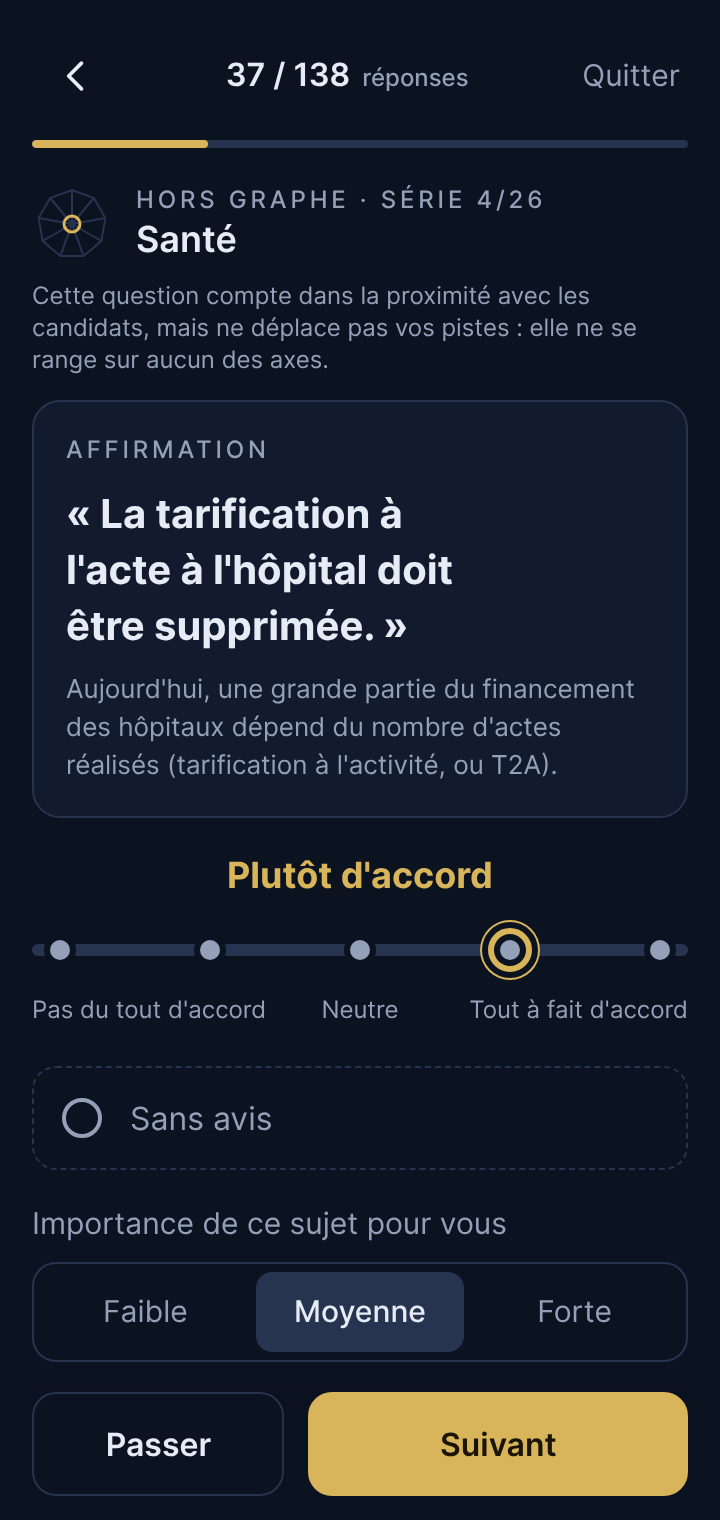
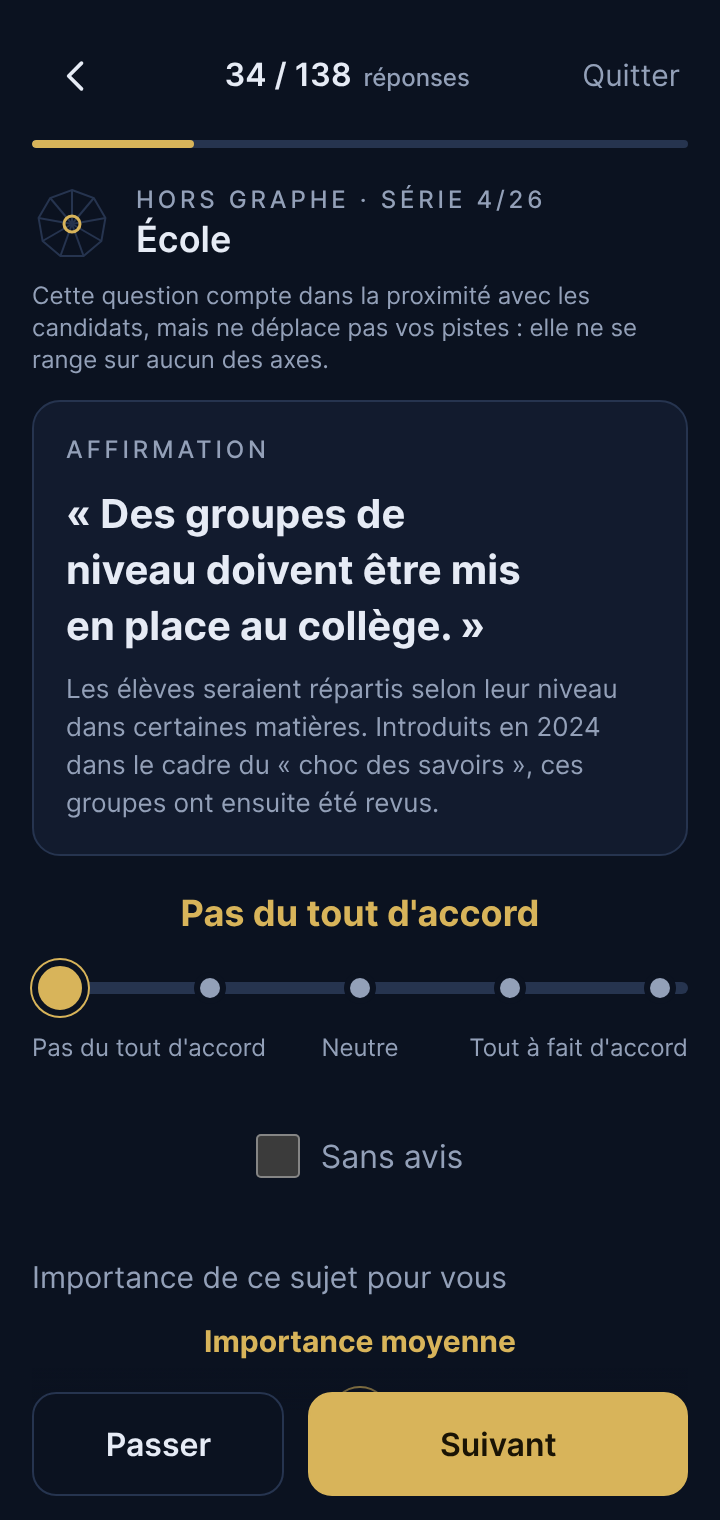
1.54

diff --git a/js/app.js b/js/app.js
@@ -419,12 +419,13 @@ function viewQuiz(n) {
   const serie = seriesOf(n);
   const nx = nextTodo(n), nextHref = !nx ? '#/resultats' : seriesOf(nx) !== serie && streak >= 8 ? '#/serie/' + serie : '#/quiz/' + nx;
   const set = !!a && a.v !== null && a.v !== undefined, lab = (v) => OPTIONS.find((o) => o.v === v).t;
-  const opts = `<div class="scale">
+  const na = !!a && a.v === null;
+  const opts = `${na ? '' : `<div class="scale">
     <p class="scale-now${set ? ' on' : ''}" id="ans-now" aria-live="polite">${set ? lab(a.v) : 'Touchez ou glissez'}</p>
     <div class="scale-box">${[0, 1, 2, 3, 4].map((k) => `<i class="tk" style="--k:${k}"></i>`).join('')}<input type="range" id="ans" min="-2" max="2" step="1" value="${set ? a.v : 0}" class="${set ? '' : 'unset'}" data-unset="${set ? 0 : 1}" aria-label="Votre position sur cette affirmation" aria-valuetext="${set ? lab(a.v) : 'pas encore de réponse'}"></div>
     <div class="scale-ends"><span>Pas du tout d'accord</span><span>Neutre</span><span>Tout à fait d'accord</span></div>
-  </div>
-  <button class="opt na" data-v="null" aria-pressed="${!!a && a.v === null}"><span class="dot"></span>Sans avis</button>`;
+  </div>`}
+  <label class="noopinion"><input type="checkbox" data-na ${na ? 'checked' : ''}> Sans avis</label>`;
   const imp = a && a.v !== null && a.v !== undefined ? (a.imp === true ? 'forte' : a.imp || 'moyenne') : null;
   return `
   <div class="topbar">
@@ -437,7 +438,7 @@ function viewQuiz(n) {
   ${q.actualite ? `<div class="notice"><b>Dans l'actualité depuis le ${frDate(q.actualite.depuis)}.</b> ${esc(q.actualite.evenement)} <a href="${esc(q.actualite.source.url)}" target="_blank" rel="noopener noreferrer">${esc(q.actualite.source.titre)}</a><br><span class="small muted">Cette question compte dans la proximité avec les candidats, mais ne déplace pas vos pistes. Elle sera retirée quand le sujet ne fera plus l'actualité.</span></div>` : axe ? '' : '<p class="small muted" style="margin:-6px 0 12px">Cette question compte dans la proximité avec les candidats, mais ne déplace pas vos pistes : elle ne se range sur aucun des axes.</p>'}
   <div class="card affirm"><p class="eyebrow">Affirmation</p><p class="statement">« ${esc(q.enonce)} »</p><p class="context">${esc(q.contexte)}</p></div>
   <div class="opts" role="group" aria-label="Votre position">${opts}</div>
-  ${imp ? `<div class="importance"><p>Importance de ce sujet pour vous</p><div class="seg" role="group" aria-label="Importance">${IMPORTANCE.map(([k, t]) => `<button data-imp="${k}" aria-pressed="${imp === k}">${t}</button>`).join('')}</div></div>` : ''}
+  ${imp ? `<div class="importance"><p>Importance de ce sujet pour vous</p><div class="scale imp"><p class="scale-now on" id="imp-now" aria-live="polite">Importance ${IMPORTANCE.find((x) => x[0] === imp)[1].toLowerCase()}</p><div class="scale-box" style="--n:2">${[0, 1, 2].map((k) => `<i class="tk" style="--k:${k}"></i>`).join('')}<input type="range" id="imp" min="0" max="2" step="1" value="${IMPORTANCE.findIndex((x) => x[0] === imp)}" aria-label="Importance de ce sujet pour vous" aria-valuetext="${IMPORTANCE.find((x) => x[0] === imp)[1]}"></div><div class="scale-ends">${IMPORTANCE.map(([, t]) => `<span>${t}</span>`).join('')}</div></div></div>` : ''}
   <div class="bottombar">
     <a class="btn" href="${nextHref}">Passer</a>
     <a class="btn primary" ${a ? `href="${nextHref}"` : 'aria-disabled="true" tabindex="-1"'}>${nextHref === '#/resultats' ? 'Mes résultats' : nextHref.startsWith('#/serie') ? 'Fin de série' : 'Suivant'}</a>
@@ -730,9 +731,6 @@ document.addEventListener('click', (e) => {
   const t = e.target.closest('[data-v],[data-imp],[data-sel],[data-act]'); if (!t) return;
   if (t.dataset.v !== undefined) {
     commitAnswer(t.dataset.v === 'null' ? null : Number(t.dataset.v));
-  } else if (t.dataset.imp) {
-    const q = D.questions[quizN() - 1]; state.answers[q.id].imp = t.dataset.imp; save();
-    rerender(() => viewQuiz(quizN()));
   } else if (t.dataset.sel) {
     const id = t.dataset.sel, i = resSel.indexOf(id);
     if (i >= 0) resSel.splice(i, 1); else { if (resSel.length >= MAX_SEL) resSel.shift(); resSel.push(id); }
@@ -755,6 +753,7 @@ function commitAnswer(v) {
 }
 const SCALE_LABELS = Object.fromEntries(OPTIONS.filter((o) => o.v !== null).map((o) => [o.v, o.t]));
 document.addEventListener('input', (e) => {
+  if (e.target.matches && e.target.matches('#imp')) { const t = IMPORTANCE[e.target.value][1]; document.getElementById('imp-now').textContent = 'Importance ' + t.toLowerCase(); e.target.setAttribute('aria-valuetext', t); return; }
   if (!e.target.matches || !e.target.matches('#ans')) return;
   const n = document.getElementById('ans-now');
   e.target.classList.remove('unset'); n.textContent = SCALE_LABELS[e.target.value]; n.classList.add('on');
@@ -768,7 +767,20 @@ document.addEventListener('keydown', (e) => {
   if ((e.key === 'Enter' || e.key === ' ') && e.target.matches && e.target.matches('#ans[data-unset="1"]')) { e.preventDefault(); commitAnswer(Number(e.target.value)); }
 });
 document.addEventListener('change', (e) => {
+  if (e.target.matches('[data-na]')) {
+    const q = D.questions[quizN() - 1];
+    if (e.target.checked) commitAnswer(null);
+    else { delete state.answers[q.id]; if (streak > 0) streak--; save(); rerender(() => viewQuiz(quizN())); }
+    const el = document.querySelector('[data-na]'); if (el) el.focus({ preventScroll: true });
+    return;
+  }
   if (e.target.matches('#ans')) { commitAnswer(Number(e.target.value)); return; }
+  if (e.target.matches('#imp')) {
+    const q = D.questions[quizN() - 1]; if (!state.answers[q.id]) return;
+    state.answers[q.id].imp = IMPORTANCE[e.target.value][0]; save();
+    rerender(() => viewQuiz(quizN())); const el = document.getElementById('imp'); if (el) el.focus({ preventScroll: true });
+    return;
+  }
   if (e.target.matches('[data-lines]')) { showLines = e.target.checked; rerender(viewResults); return; }
   if (!e.target.matches('[data-consent]')) return;
   state.statsConsent = e.target.checked; save();

diff --git a/css/style.css b/css/style.css
@@ -102,11 +102,12 @@ main{flex:1;width:100%;max-width:720px;margin:0 auto;padding:12px var(--pad) 32p
 .scale-now{margin:0 0 2px;min-height:26px;text-align:center;font-size:18px;white-space:nowrap;line-height:26px;font-weight:650;color:var(--muted)}
 .scale-now.on{color:var(--or)}
 .scale-box{position:relative;height:44px}
-.scale-box .tk{position:absolute;top:50%;left:calc(14px + (100% - 28px) * var(--k) / 4);width:10px;height:10px;margin:-5px 0 0 -5px;border-radius:50%;background:var(--muted);z-index:2;pointer-events:none;box-shadow:0 0 0 3px var(--nuit)}
-.scale-box input{-webkit-appearance:none;appearance:none;position:relative;z-index:1;display:block;width:100%;height:44px;margin:0;background:transparent;cursor:pointer;touch-action:pan-y;-webkit-tap-highlight-color:transparent}
+.scale-box::before{content:'';position:absolute;left:0;right:0;top:50%;height:6px;margin-top:-3px;border-radius:3px;background:var(--trait)}
+.scale-box .tk{position:absolute;top:50%;left:calc(14px + (100% - 28px) * var(--k) / var(--n,4));width:10px;height:10px;margin:-5px 0 0 -5px;border-radius:50%;background:var(--muted);z-index:1;pointer-events:none;box-shadow:0 0 0 3px var(--nuit)}
+.scale-box input{-webkit-appearance:none;appearance:none;position:relative;z-index:3;display:block;width:100%;height:44px;margin:0;background:transparent;cursor:pointer;touch-action:pan-y;-webkit-tap-highlight-color:transparent}
 .scale-box input:focus{outline:none}
-.scale-box input::-webkit-slider-runnable-track{height:6px;border-radius:3px;background:var(--trait)}
-.scale-box input::-moz-range-track{height:6px;border-radius:3px;background:var(--trait)}
+.scale-box input::-webkit-slider-runnable-track{height:6px;border-radius:3px;background:transparent}
+.scale-box input::-moz-range-track{height:6px;border-radius:3px;background:transparent}
 .scale-box input::-webkit-slider-thumb{-webkit-appearance:none;width:28px;height:28px;margin-top:-11px;border-radius:50%;background:var(--or);border:3px solid var(--nuit);box-shadow:0 0 0 1px var(--or)}
 .scale-box input::-moz-range-thumb{width:22px;height:22px;border-radius:50%;background:var(--or);border:3px solid var(--nuit);box-shadow:0 0 0 1px var(--or)}
 .scale-box input.unset::-webkit-slider-thumb{opacity:0}
@@ -118,8 +119,11 @@ main{flex:1;width:100%;max-width:720px;margin:0 auto;padding:12px var(--pad) 32p
 .scale-ends{display:grid;grid-template-columns:1fr auto 1fr;gap:8px;font-size:12px;line-height:16px;color:var(--muted)}
 .scale-ends span:first-child{text-align:left}
 .scale-ends span:last-child{text-align:right}
+.noopinion{display:flex;align-items:center;justify-content:center;gap:10px;min-height:44px;margin:4px 0 12px;font-size:16px;color:var(--muted);cursor:pointer}
+.noopinion input{width:22px;height:22px;margin:0;accent-color:var(--or);cursor:pointer}
 .importance{margin:0 0 16px}
 .importance p{color:var(--muted);margin:0 0 8px}
+.importance .scale-now{font-size:15px;margin:0 0 2px;color:var(--or)}
 .seg{display:grid;grid-template-columns:repeat(3,1fr);gap:4px;padding:4px;border:1px solid var(--trait);border-radius:12px;background:var(--nuit)}
 .seg button{min-height:40px;border:0;border-radius:8px;background:transparent;color:var(--muted);font:inherit;font-size:15px;cursor:pointer}
 .seg button[aria-pressed=true]{background:var(--trait);color:var(--txt);font-weight:500}

diff --git a/index.html b/index.html
@@ -19,7 +19,7 @@
 <meta name="twitter:card" content="summary_large_image">
 <meta name="twitter:image" content="https://elysee-2027.win/identite/4-image-partage/partage-1200x630.png">
 <link rel="preload" href="fonts/inter-latin-400.woff2" as="font" type="font/woff2" crossorigin>
-<link rel="stylesheet" href="css/style.css?v=1.52">
+<link rel="stylesheet" href="css/style.css?v=1.54">
 </head>
 <body>
 <header class="bar" id="bar">
@@ -47,7 +47,7 @@
 </footer>
 <div class="toast" id="toast" role="status" aria-live="polite"></div>
 <noscript><p class="loading">Cet outil a besoin de JavaScript pour fonctionner.</p></noscript>
-<script src="js/config.js?v=1.52"></script>
-<script type="module" src="js/app.js?v=1.52"></script>
+<script src="js/config.js?v=1.54"></script>
+<script type="module" src="js/app.js?v=1.54"></script>
 </body>
 </html>
